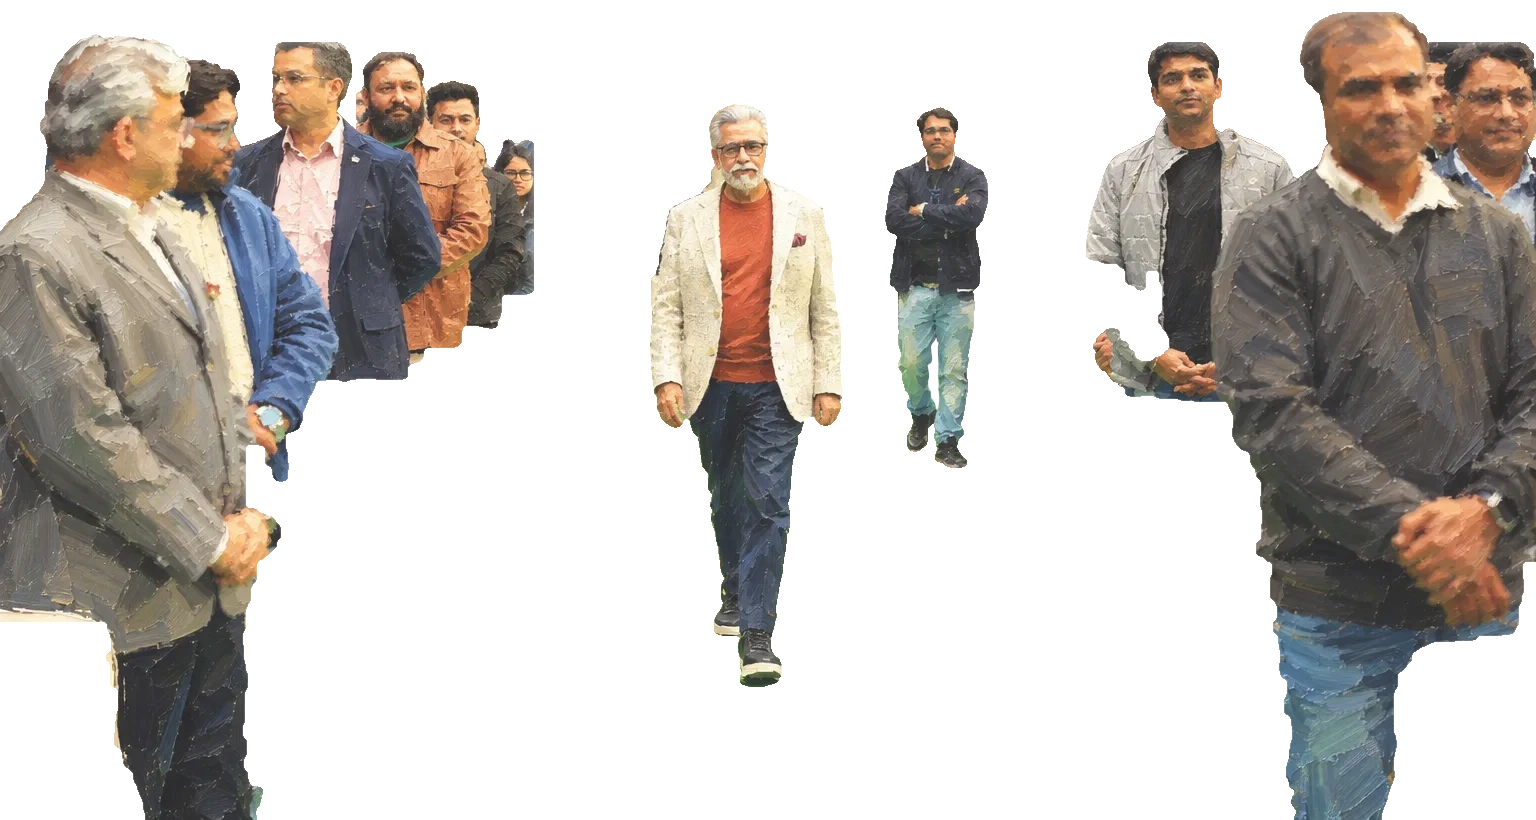
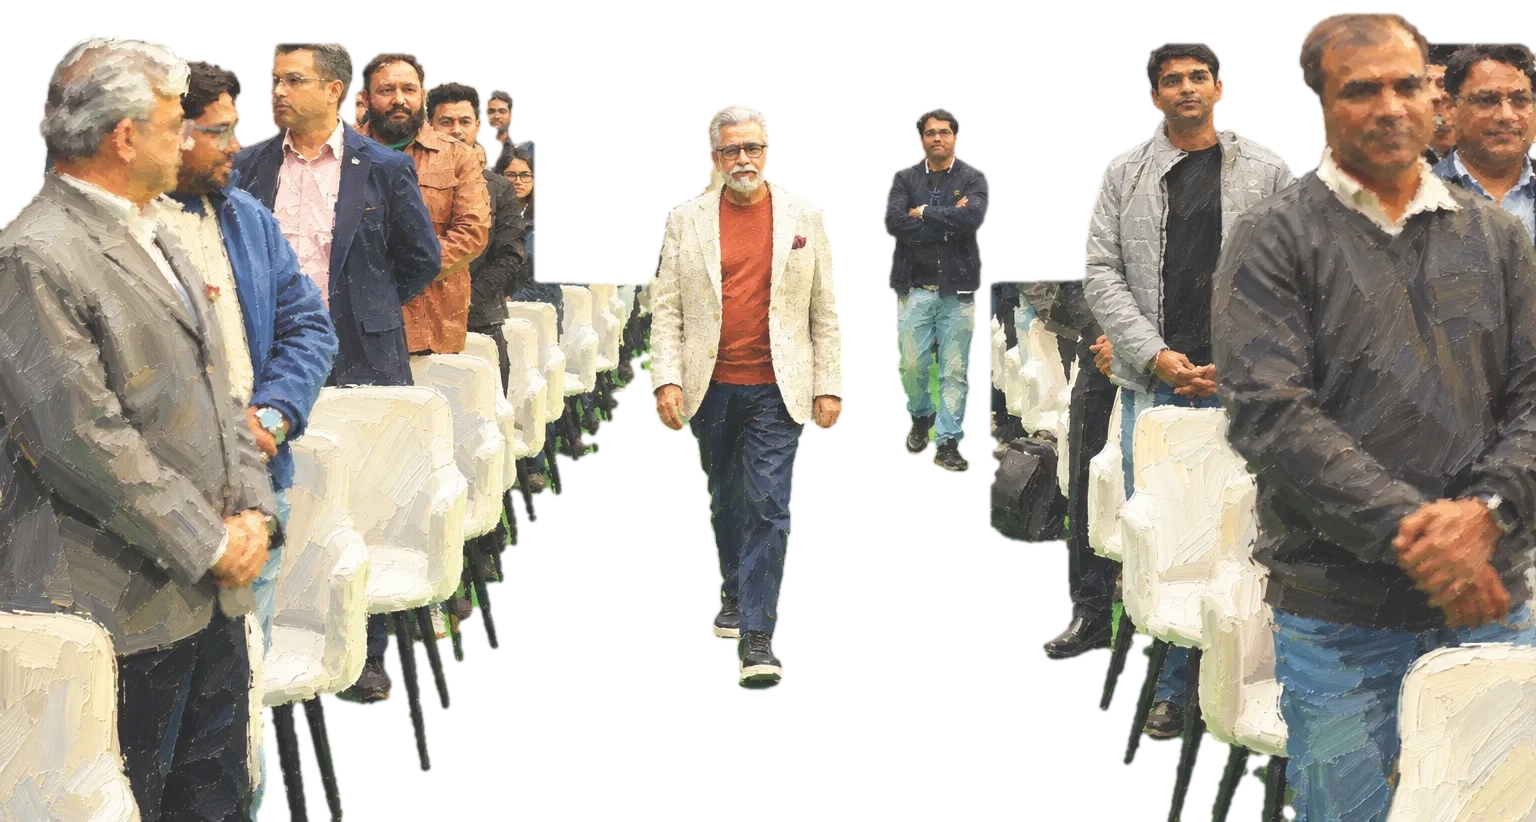
Hover label back, kept on screen; larger, tighter words; mentor keeps the chairs
- Hover: the word in a label above it again (13px, dark on light, high contrast), placed over the paintings and kept on screen at every edge, flipped below the word near the top; a quiet underline marks the word
- Words 1.7x larger on desktop (1.15x on phones), with tighter word and line spacing; any word touching the figure is kept, so narrow parts aren't left bare; a brightness floor keeps words on dark clothes legible
- Mentor: the chairs and the lower half of the people are kept; only the carpet and backdrop are removed

Claude-Session: https://claude.ai/code/session_011tDJ4uajGqNBzUiiqwHwYC

diff --git a/js/data.js b/js/data.js
@@ -35,7 +35,7 @@ window.FACETS = [
     ink: ['#BF5B76', '#4b2931'],
     line: "Before every title, he is a father, a husband and a grandfather.",
     story: ["The values he carries into every boardroom were shaped at home, and are still kept there.", "Family members describe a man who listens first, laughs easily and is never too busy to be present."] },
[2 lines of base64/hex data omitted]
     artHeads: [[0.479, 0.154, 0.021, 0.049], [0.055, 0.117, 0.031, 0.071], [0.14, 0.105, 0.02, 0.046], [0.202, 0.08, 0.02, 0.046], [0.257, 0.08, 0.02, 0.046], [0.296, 0.117, 0.014, 0.034], [0.612, 0.154, 0.014, 0.034], [0.771, 0.087, 0.021, 0.049], [0.898, 0.068, 0.029, 0.067], [0.97, 0.093, 0.022, 0.051]],   // him, and the faces along the aisle
     feature: [['MENTOR', 0.479, 0.42, 0.06, 5], ['GUIDE', 0.06, 0.45, 0.1, 5]],
     headScale: 1.1, headWeight: 600, heads: [[0.175, 0.203, 0.073, 0.145], [0.471, 0.151, 0.064, 0.145], [0.824, 0.221, 0.064, 0.156]],

diff --git a/js/app.js b/js/app.js
@@ -127,7 +127,7 @@
   // whole rows exactly, and the small words on either side are spaced to meet it, so nothing leaves a gap. The group
   // sits level with the text and fades out softly at the bottom. Scrolling in or out, it comes apart into its words.
   // Phone: as tall as the portraits, panning across the family as you scroll.
-  const WORD_SCALE = 1.5;      // the paintings' words, relative to each painting's row count (artRows)
+  const WORD_SCALE = 1.7, WORD_SCALE_MOBILE = 1.15;   // the paintings' words, relative to each painting's row count (artRows); phones' pictures are smaller
   const LARGE_WORDS = false;   // larger words formed inside the paintings (feature lists in data.js); off: every word one size
   const makeArt = (state, f, fi) => {
     const root = document.documentElement, sec = () => $(`.flow [data-state="${state}"]`);
@@ -181,7 +181,7 @@
       // both sides tight the words are chosen to fill the space, then spaced (and at most very slightly widened or
       // narrowed) so the line runs exactly from one to the other.
       function line(fs, y, a, b, tightA, tightB, tag) {
-        const space = fs * 0.22, put = (t, px, s) => words.push({ t, x: px, y, w: widthOf(t, fs) * s, fs, s, tag });
+        const space = fs * 0.15, put = (t, px, s) => words.push({ t, x: px, y, w: widthOf(t, fs) * s, fs, s, tag });
         if (!tightA && !tightB) { let px = a - R() * fs * 4; while (px < b) { const t = pick(); put(t, px, 1); px += widthOf(t, fs) + space; } return; }
         if (tightA && !tightB) { let px = a; while (px < b) { const t = pick(); put(t, px, 1); px += widthOf(t, fs) + space; } return; }
         if (!tightA) { let px = b; while (px > a) { const t = pick(), w = widthOf(t, fs); px -= w; put(t, px, 1); px -= space; } return; }
@@ -204,7 +204,7 @@
 
       // the row grid: every line the same height
       // every word one size (faces a little finer, so they stay recognisable), set large enough to read
-      const body = ch / (mob ? f.artRowsMobile || 72 : f.artRows || 64) * WORD_SCALE, step = body * CAP + body * 0.14, y0 = body * CAP;
+      const body = ch / (mob ? f.artRowsMobile || 72 : f.artRows || 64) * (mob ? WORD_SCALE_MOBILE : WORD_SCALE), step = body * CAP + body * 0.1, y0 = body * CAP;
       // The larger words (desktop) are not laid over the picture: their letters are made of the small words themselves,
       // set finer and closer inside each letter and a step brighter, with the words just round the letters dimmed a little,
       // so a word appears out of the texture from a distance and is all small words close up. One main word per picture,
@@ -247,7 +247,7 @@
         for (let y = q.cy - q.hh + fsI * CAP; y < q.cy + q.hh + stepI; y += stepI) line(fsI, y, q.cx - q.hw, q.cx + q.hw, false, false, 'i');
       });
       // the faces: their own finer rows, only where a face is
-      const fsF = body * 0.8, stepF = fsF * CAP + fsF * 0.14;
+      const fsF = body * 0.8, stepF = fsF * CAP + fsF * 0.1;
       for (let y = fsF * CAP; y < ch + stepF; y += stepF) {
         const yc = y - fsF * CAP / 2, spans = [];
         faces.forEach(([a, b, rx, ry]) => { const e = (yc - b) / (ry * 1.15); if (Math.abs(e) < 1) { const hw = rx * 1.15 * Math.sqrt(1 - e * e); spans.push([a - hw - fsF * 2, a + hw + fsF * 2]); } });
@@ -258,7 +258,7 @@
       // keep only words that show: on the figure, on the right side of the soft line between face and body, and (for the
       // letter rows) touching a letter, (for the body rows) not wholly inside one
       words = words.filter(w => {
-        const my = w.y - w.fs * CAP / 2, on = onFamily(w.x + w.w / 2, my) || onFamily(w.x + 2, my) || onFamily(w.x + w.w - 2, my);
+        const my = w.y - w.fs * CAP / 2, on = [0.02, 0.25, 0.5, 0.75, 0.98].some(k => onFamily(w.x + w.w * k, my) || onFamily(w.x + w.w * k, my - w.fs * CAP * 0.4));
         if (!on) return false;
         if (w.tag === 'i') { for (let i = 0; i <= 6; i++) if (inLetter(w.x + w.w * i / 6, my)) return true; return false; }
         if (w.tag === 'f') return inFace(w.x + w.w / 2, my, 1.12) || inFace(w.x, my, 1.12) || inFace(w.x + w.w, my, 1.12);
@@ -282,6 +282,11 @@
       const [ifc, ifg] = mk(); ifg.drawImage(ic, 0, 0);
       ig.globalCompositeOperation = 'destination-in'; ig.drawImage(lc, 0, 0);
       for (const g of [bg, fg]) { g.globalCompositeOperation = 'source-in'; g.filter = 'brightness(1.12) saturate(1.08)'; g.drawImage(img, 0, 0, cw, ch); g.filter = 'none'; }
+      // a floor under the words' colour: words on dark clothes stay legible against the dark ground instead of vanishing
+      for (const [c0, g] of [[bc, bg], [fc, fg]]) {
+        const [flc, flg] = mk(); flg.fillStyle = 'rgb(108, 103, 100)'; flg.fillRect(0, 0, cw, ch); flg.globalCompositeOperation = 'destination-in'; flg.drawImage(c0, 0, 0);
+        g.globalCompositeOperation = 'lighten'; g.drawImage(flc, 0, 0);
+      }
       for (const g of [ig, ifg]) {   // the letter rows a clear step brighter, in the painting's colour softened so no dark stroke breaks a letter
         g.globalCompositeOperation = 'source-in'; g.filter = `blur(${Math.round(body * 0.6)}px) brightness(1.58) saturate(1.12)`; g.drawImage(img, 0, 0, cw, ch); g.filter = 'none';
         g.globalCompositeOperation = 'source-atop'; g.globalAlpha = 0.14; g.fillStyle = '#fff'; g.fillRect(0, 0, cw, ch); g.globalAlpha = 1;
@@ -316,27 +321,7 @@
       x.globalAlpha = 1 - smooth(0, 0.45, q); x.drawImage(layers.under, 0, 0);
       if (q <= 0) {
         x.globalAlpha = 1; x.drawImage(layers.b, 0, 0); x.drawImage(layers.f, 0, 0); x.drawImage(layers.i, 0, 0);
-        if (hl) {
-          // the word you are pointing at, gently: the words round it settle back, a soft warm highlight, and the word
-          // itself a little larger and brighter in place, so it can be read without anything covering its neighbours
-          const S = Math.max(1.6, 15 * D / hl.h), cx = hl.x + hl.w / 2, cy = hl.top + hl.h / 2, r = hl.w * S * 0.7 + hl.h * S;   // large enough to read at a glance
-          const rg = x.createRadialGradient(cx, cy, 0, cx, cy, r); rg.addColorStop(0, 'rgba(16,13,12,0.5)'); rg.addColorStop(0.6, 'rgba(16,13,12,0.22)'); rg.addColorStop(1, 'rgba(16,13,12,0)');
-          x.fillStyle = rg; x.fillRect(cx - r, cy - r, r * 2, r * 2);
-          const bw = hl.w * S + hl.h * 0.9, bh = hl.h * S * 0.92;
-          x.fillStyle = 'rgba(255, 228, 170, 0.16)'; x.beginPath(); x.roundRect(cx - bw / 2, cy - bh / 2, bw, bh, bh * 0.3); x.fill();
-          // set afresh at the larger size (crisp, not an enlarged copy), in the painting's colour there, lifted towards the light
-          if (!hl.spr) {
-            const fsz = hl.fs * S, t = document.createElement('canvas'), g = t.getContext('2d'); g.font = `700 ${fsz}px ${window.WP_FONT}`;
-            const tw = Math.ceil(g.measureText(hl.t).width + fsz * 0.4), th = Math.ceil(fsz * 1.2); t.width = tw; t.height = th;
-            g.font = `700 ${fsz}px ${window.WP_FONT}`; g.textAlign = 'center'; g.textBaseline = 'middle'; g.fillStyle = '#fff'; g.fillText(hl.t, tw / 2, th / 2);
-            // coloured by the painting under the word, softened and lifted towards the light
-            g.globalCompositeOperation = 'source-in'; g.filter = `blur(${Math.round(fsz * 0.15)}px) brightness(1.9) saturate(1.1)`;
-            const kx = img.naturalWidth / el.width, ky = img.naturalHeight / el.height;
-            g.drawImage(img, (cx - tw / 2) * kx, (cy - th / 2) * ky, tw * kx, th * ky, 0, 0, tw, th); g.filter = 'none';
-            hl.spr = t;
-          }
-          x.shadowColor = 'rgba(10,8,8,0.75)'; x.shadowBlur = 6 * D; x.drawImage(hl.spr, cx - hl.spr.width / 2, cy - hl.spr.height / 2); x.shadowBlur = 0;
-        }
+        if (hl) { x.fillStyle = '#f2ece2'; x.globalAlpha = 0.95; x.fillRect(hl.x, hl.y + hl.fs * 0.12, hl.w, Math.max(1.5 * D, hl.fs * 0.08)); x.globalAlpha = 1; }   // the word you are pointing at
         return;
       }
       for (const w of words) {
@@ -389,7 +374,7 @@
     // ---- reading its words: hover shows the word, a click or tap opens the message behind it ----
     function hit(cx, cy, pad) {
       const r = el.getBoundingClientRect(); if (!r.width) return null;
-      const px = (cx - r.left) * el.width / r.width, py = (cy - r.top) * el.height / r.height, pd = pad * D;
+      const px = (cx - r.left) * el.width / r.width, py = (cy - r.top) * el.height / r.height, pd = pad * D * 1.5;
       let best = null;
       for (const w of words) if (px >= w.x - pd && px <= w.x + w.w + pd && py >= w.top - pd && py <= w.top + w.h + pd) { if (!best || w.tag !== 'b') best = w; }   // a face or letter word wins over the row beneath it
       return best;
@@ -400,12 +385,13 @@
       if (e.pointerType !== 'mouse') return;
       const w = hit(e.clientX, e.clientY, 1);
       el.style.cursor = w ? 'pointer' : 'default';
+      if (w) showLoupe(w.t, rectOf(w), false); else hideLoupe();
       highlight(w || (picked && picked.art === api ? picked.w : null));
     });
-    el.addEventListener('pointerleave', () => { loupe.classList.remove('on'); highlight(picked && picked.art === api ? picked.w : null); });
+    el.addEventListener('pointerleave', () => { hideLoupe(); highlight(picked && picked.art === api ? picked.w : null); });
     el.addEventListener('click', e => {
       const w = hit(e.clientX, e.clientY, e.pointerType === 'mouse' ? 1 : 6);
-      if (w) { picked = { state, w, art: api }; highlight(w); loupe.classList.remove('on'); openSheet(w.t, w.m); } else { closeReader(); highlight(null); }
+      if (w) { picked = { state, w, art: api }; highlight(w); hideLoupe(); openSheet(w.t, w.m); } else { closeReader(); highlight(null); }
     });
     // where a visitor's word lands in the painting: one of its small body words, near the middle, chosen by the word's id
     function spot(id) {
@@ -687,6 +673,17 @@
   let rt; addEventListener('resize', () => { clearTimeout(rt); rt = setTimeout(() => { const ow = W, oh = H; geometry(); sizeTravel(); travelPairs.clear(); ART_LIST.forEach(A => { A.place(); A.build(); }); if (W !== ow || H !== oh) warm(); kick(); }, 150); });
 
   // ---------------- hover loupe + tap to read ----------------
+  // The word under the pointer, in a label just above it (below it near the top of the screen), never cut off at the edges.
+  $('.stage').appendChild(loupe);
+  function showLoupe(text, r, mine) {
+    loupe.textContent = text; loupe.classList.toggle('mine', !!mine);
+    const st = $('.stage').getBoundingClientRect(), lw = loupe.offsetWidth, lh = loupe.offsetHeight, hdr = parseFloat(getComputedStyle(document.documentElement).getPropertyValue('--hdr')) || 64;
+    const cx = Math.min(innerWidth - 10 - lw / 2, Math.max(10 + lw / 2, r.left + r.width / 2));
+    const above = r.top - lh - 8 >= hdr + 6, y = above ? r.top - 8 : r.top + r.height + 8;
+    loupe.style.transform = `translate(${(cx - lw / 2 - st.left).toFixed(1)}px, ${(above ? y - lh - st.top : y - st.top).toFixed(1)}px)`;
+    loupe.classList.add('on');
+  }
+  const hideLoupe = () => loupe.classList.remove('on');
   const local = e => { if (isArt(view.state)) return [-1e6, -1e6]; const r = cv.getBoundingClientRect(), L = layoutFor(view.state); return [(e.clientX - r.left) * W / r.width - L.ox, (e.clientY - r.top) * H / r.height - L.oy]; };
   function wordAt(x, y, pad) {
     const s = view.state; if (isArt(s)) return null;   // a painting's words are read from its own canvas
@@ -703,11 +700,9 @@
     hover = w ? { state: view.state, w } : null;
     cv.style.cursor = w ? 'pointer' : 'default';
     if (w) {
-      loupe.textContent = w.t; loupe.classList.toggle('mine', !!w.mine);
-      const L = layoutFor(view.state);
-      loupe.style.transform = `translate(${L.ox + w.x + w.w / 2}px, ${L.oy + w.y - 8}px)`;
-      loupe.classList.add('on');
-    } else loupe.classList.remove('on');
+      const L = layoutFor(view.state), r = cv.getBoundingClientRect(), k = r.width / W;
+      showLoupe(w.t, { left: r.left + (L.ox + w.x) * k, top: r.top + (L.oy + w.y) * k, width: w.w * k, height: w.h * k }, w.mine);
+    } else hideLoupe();
     kick();
   });
   cv.addEventListener('pointerleave', () => { hover = null; loupe.classList.remove('on'); kick(); });

diff --git a/css/style.css b/css/style.css
@@ -81,12 +81,13 @@ body.on-splash .top, body.on-splash .note { pointer-events: none !important; }
 .loading { position: absolute; left: 34%; top: 50%; transform: translate(-50%, -50%); margin: 0; font: 500 11px var(--sans); letter-spacing: .2em; text-transform: uppercase; color: var(--muted); transition: opacity .6s; }
 body.ready .loading { opacity: 0; }
 .loupe {
-  position: absolute; left: 0; top: 0; pointer-events: none; padding: 5px 9px; border-radius: 4px; background: var(--ink); color: var(--paper);
-  font: 600 12px/1 var(--narrow); letter-spacing: .08em; text-transform: uppercase; white-space: nowrap;
-  translate: -50% -100%; opacity: 0; transition: opacity .2s;
+  /* the word under the pointer: dark on light, 13px, well above 4.5:1 contrast on any part of the picture */
+  position: absolute; left: 0; top: 0; z-index: 5; pointer-events: none; padding: 6px 10px; border-radius: 4px; background: var(--ink); color: #1a1718;
+  font: 700 13px/1 var(--narrow); letter-spacing: .08em; text-transform: uppercase; white-space: nowrap; box-shadow: 0 4px 14px rgba(0, 0, 0, .45);
+  opacity: 0; transition: opacity .15s;
 }
 .loupe.on { opacity: 1; }
-.loupe.mine { background: var(--accent); }
+.loupe.mine { background: var(--accent); color: #1a1718; }
 
 .flow { position: relative; z-index: 2; margin-top: -100vh; margin-top: -100svh; pointer-events: none; }
 .sec { min-height: 125vh; display: flex; align-items: center; padding: 0 0 0 62vw; }
